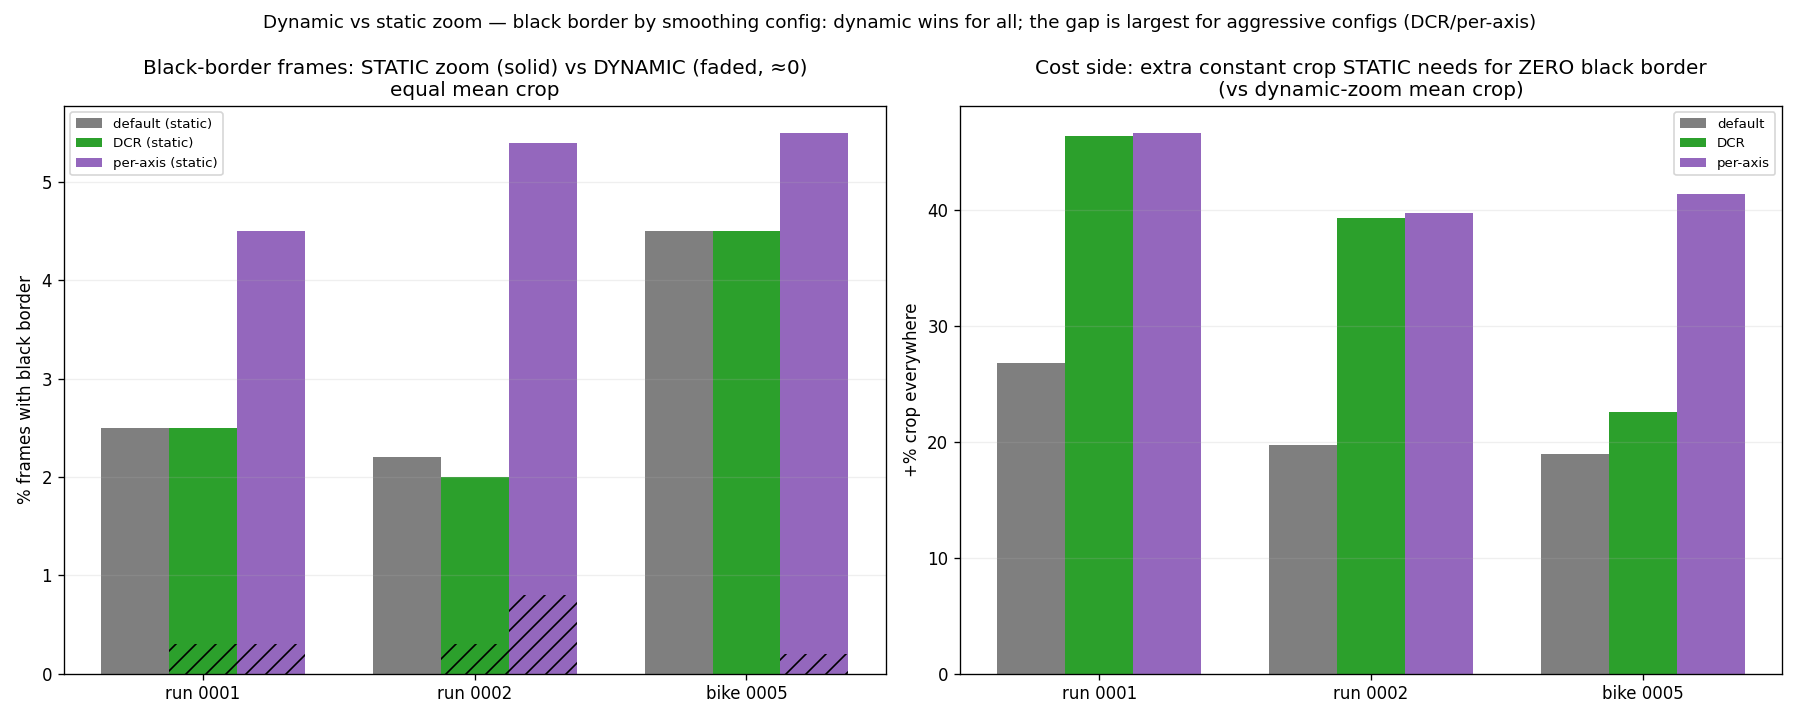
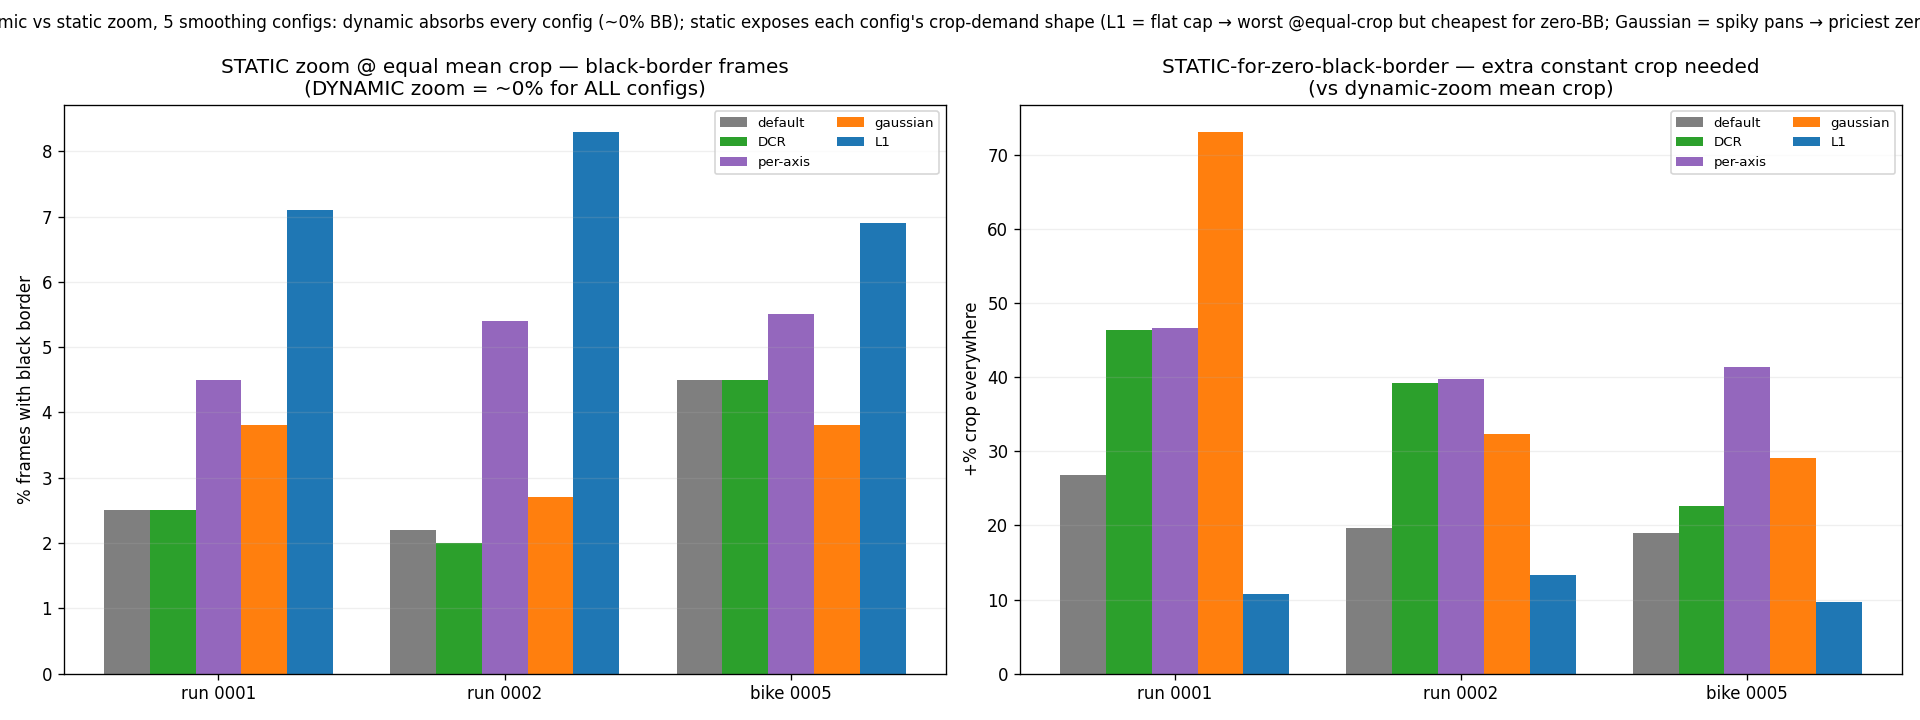
cpp_core: extend dynamic-vs-static zoom black-border analysis to all 5 configs (§8c')
Add gaussian (from claude/gaussian-smoothing) and L1 (from claude/speed-bump-jolt-rnd,
raw_fov export ported) to the per-config dynamic-vs-static zoom black-border study.

  config    dynamic bb%   static bb%(equal crop)   static-0BB extra crop
  default    0.0          2.2-4.5                  +19..27%
  DCR        0.0-0.3      2.0-4.5                  +23..46%
  per-axis   0.2-0.8      4.5-5.5                  +40..47%
  gaussian   0.0-0.4      2.7-3.8                  +29..73%
  L1         0.0          6.9-8.3                  +10..13%

New findings: dynamic zoom absorbs every config's crop-demand shape (~0% BB for all
five); static exposes it, oppositely for different filter shapes. L1's hard crop box
CAPS the peak -> never breaches dynamic and cheapest static-zero-BB (+10-13%), but it
rides the box constantly so static-equal-crop under-covers the MOST frames (7-8%,
worst of all). Gaussian is non-adaptive -> over-smooths sharp pans into a huge peak
required FOV -> priciest static-zero-BB (+73% run0001). Figure updated to 5 configs.

Claude-Session: https://claude.ai/code/session_01AJzF16XXvvuX3TJCKcokCX

diff --git a/cpp_core/SMOOTHING_RND.md b/cpp_core/SMOOTHING_RND.md
@@ -317,33 +317,41 @@ So adaptive zoom buys either ~0 % black border at equal crop, or 20–48 % less 
 (zero) black border. Static gives up that trade — using it would make black borders **worse** at
 any comparable FOV budget.
 
-**8c′. Dynamic-vs-static, broken down by smoothing config.** The static penalty is not uniform —
-it scales with how *spiky* each config's per-frame required FOV is. From the `raw_fov` series
-(default / DCR / per-axis, three clips), black-border frames under DYNAMIC vs STATIC (equal mean
-crop), and the extra constant crop a STATIC zoom needs for zero black border:
+**8c′. Dynamic-vs-static, broken down by smoothing config — all five.** The static penalty is not
+uniform: it depends on the *shape* of each config's per-frame required-FOV distribution. From the
+`raw_fov` series of all five smoothing configs (default / DCR / per-axis on this branch; **gaussian**
+from `claude/gaussian-smoothing` at σ0.5; **L1** from `claude/speed-bump-jolt-rnd`,
+`--l1-match-default`, with the `raw_fov` export ported over), black-border frames under DYNAMIC vs
+STATIC (equal mean crop), and the extra constant crop a STATIC zoom needs for zero black border:
 
-| clip | config | dynamic bb % | static bb % | static-for-0BB extra crop |
-|---|---|---:|---:|---:|
-| run 0001 | default | 0.0 | 2.5 | +27 % |
-| run 0001 | DCR | 0.3 | 2.5 | +46 % |
-| run 0001 | per-axis | 0.3 | 4.5 | +47 % |
-| run 0002 | default | 0.0 | 2.2 | +20 % |
-| run 0002 | DCR | 0.3 | 2.0 | +39 % |
-| run 0002 | per-axis | 0.8 | 5.4 | +40 % |
-| bike 0005 | default | 0.0 | 4.5 | +19 % |
-| bike 0005 | DCR | 0.0 | 4.5 | +23 % |
-| bike 0005 | per-axis | 0.2 | 5.5 | +41 % |
+| config | dynamic bb % | static bb % (equal crop) | static-for-0BB extra crop |
+|---|---:|---:|---:|
+| default | 0.0 | 2.2 – 4.5 | +19 … 27 % |
+| DCR | 0.0 – 0.3 | 2.0 – 4.5 | +23 … 46 % |
+| per-axis | 0.2 – 0.8 | 4.5 – 5.5 | +40 … 47 % |
+| **gaussian** | 0.0 – 0.4 | 2.7 – 3.8 | **+29 … 73 %** |
+| **L1** | **0.0** | **6.9 – 8.3** | **+10 … 13 %** |
 
-- **Dynamic zoom wins for every config** — ~0–0.8 % black-border frames vs static's 2.0–5.5 % at
-  equal crop (roughly a 10× reduction). Figure: `dynamic_vs_static_zoom_blackborder.png`.
-- **The gap is *largest* for the aggressive configs.** default's required FOV is the flattest, so
-  static costs "only" +19–27 % crop / 2–4.5 % black border. DCR and especially **per-axis** have
-  spikier required FOV (they zoom harder on peaks), so under static they black-border most
-  (per-axis 4.5–5.5 %) and need the most constant crop (+40–47 %) to avoid it.
-- **Takeaway:** dynamic zoom matters *more* the more aggressive the smoothing. Precisely the configs
-  that remove the most shake (DCR, per-axis) are the ones that would suffer most under a static
-  crop — so adaptive zoom is not optional for them. Under dynamic zoom the residual black border is
-  tiny for all (§8b: mostly clamp peaks, negligible in renders).
+(Per-clip numbers in `figures/dynamic_vs_static_zoom_blackborder.png`.)
+
+- **Dynamic zoom wins for every config** — ~0–0.8 % black-border frames vs static's 2.0–8.3 % at
+  equal crop. The temporal envelope absorbs whatever crop-demand shape the smoother produces.
+- **Static exposes each config's required-FOV *shape*, and it differs sharply:**
+  - **default** — flattest demand → cheapest all round (static +19–27 %, 2–4.5 % BB).
+  - **DCR / per-axis** — spikier peaks (they zoom harder on high-motion frames) → static needs the
+    most constant crop (+40–47 %) to avoid borders.
+  - **gaussian** — non-adaptive, so it over-smooths sharp intentional pans into a huge *peak* required
+    FOV → **priciest static-for-zero-BB (+73 % on run 0001)**; its bob-band demand is otherwise
+    modest (static-equal-crop only 2.7–3.8 %).
+  - **L1** — its hard crop box `|path−raw|≤B` *caps* the peak, so it **never breaches under dynamic
+    (0.0 %)** and needs the **least** crop for static-zero-BB (+10–13 %). But L1 rides that box
+    constantly (it minimises jerk by staying at the edge), so its required FOV is *consistently high*
+    → at equal mean crop a static zoom under-covers the **most** frames (**7–8 % BB**, worst of all).
+- **Takeaway:** dynamic zoom makes the smoother's crop-demand shape *irrelevant* to black borders
+  (~0 % for all five); static zoom makes it decisive, and the exposure is opposite for a capped
+  filter (L1: cheap zero-BB, bad equal-crop) vs a peaky one (gaussian: pricey zero-BB). So adaptive
+  zoom is not optional for any of these — least of all the aggressive ones. Under dynamic zoom the
+  residual black border is tiny for all (§8b: mostly clamp peaks, negligible in renders).
 
 ## 8d. Per-axis smoothing on top of `la1` — a real extra vertical win
 

diff --git a/cpp_core/figures/README.md b/cpp_core/figures/README.md
@@ -24,7 +24,7 @@ All commands are run from the **repo root**. On a headless box prefix Python wit
 | `bike0005_dcr_vs_dji.png` | `gyro_analysis.video_metrics` | bike 0005: original vs DCR vs DJI (16:9) |
 | `angular_velocity_raw_vs_smoothed.png` | `tools/angular_velocity_compare.py` | telemetry-domain: raw gyro vs smoothed (default/DCR) angular velocity, run 0001/0002 + bike |
 | `angular_derivatives_compare.png` | `tools/angular_derivatives_compare.py` | angular velocity/accel/jerk RMS by config — same ranking at every order (accel discriminates most, jerk redundant); §8f |
-| `dynamic_vs_static_zoom_blackborder.png` | validate `raw_fov` per config | dynamic vs static zoom black border by config — dynamic ≈0 for all, gap largest for aggressive configs; §8c′ |
+| `dynamic_vs_static_zoom_blackborder.png` | validate `raw_fov`, 5 configs (incl. gaussian + L1) | dynamic vs static zoom black border by config — dynamic ≈0 for all; static exposes each config's crop-demand shape (L1 capped, gaussian peaky); §8c′ |
 
 The first two scripts read **rendered videos**; the third reads **validate CSVs** (no video,
 much faster).
